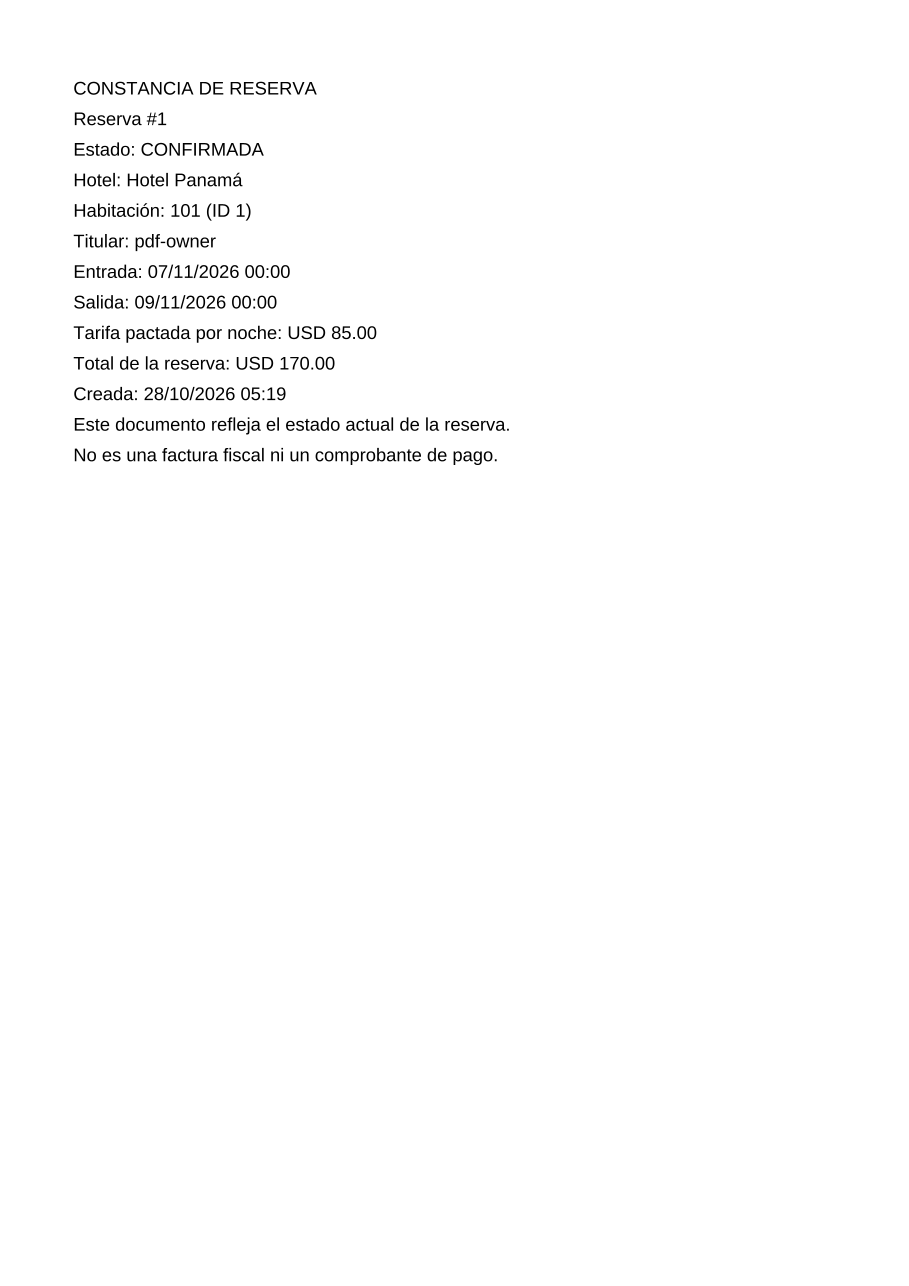
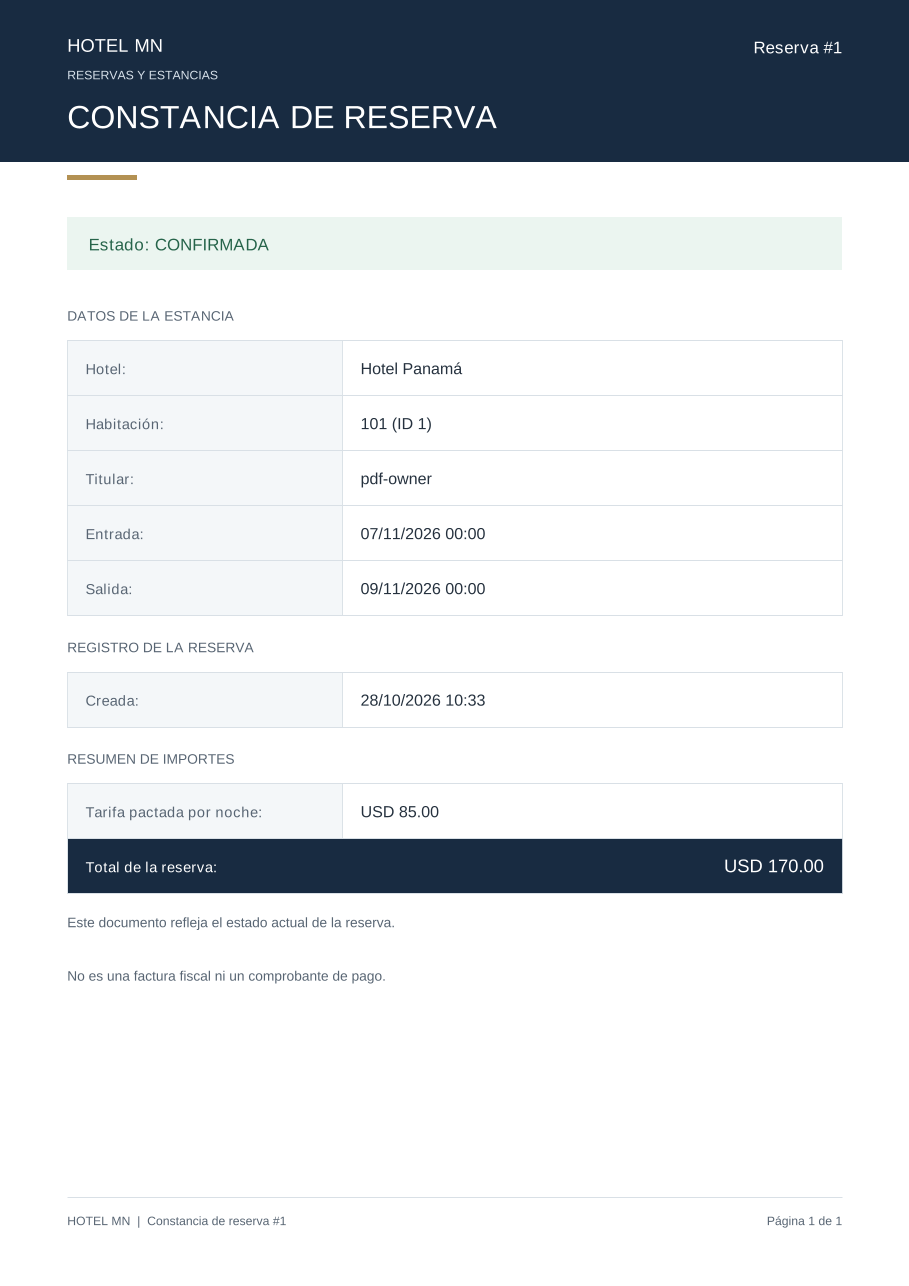
docs(hu04): registrar revision humana y muestras del PDF formal (refs #6)

diff --git a/docs/INFORME_ERIC.md b/docs/INFORME_ERIC.md
@@ -10,6 +10,7 @@ Historia nueva de Eric: «Como cliente con reservas registradas, quiero descarga
 | Corrección de un error real de la IA en HU-01 | Codex, agente de escritorio | Verificar en navegador el checkout de usuarios nuevos y recurrentes. | Las pruebas detectaron que crypto.randomUUID no estaba disponible en el contexto HTTP de la demo. Se sustituyó por un identificador basado en crypto.getRandomValues; la ejecución posterior terminó con 9/9 casos Playwright. | Eric exigió verificar el comportamiento y no dar por terminada la HU solo porque el usuario iniciara sesión o el código compilara. La corrección técnica la ejecutó el agente; no se atribuye una revisión manual inexistente. |
 | Coordinación de ramas y migraciones | Codex, agente de escritorio | Revisar PR y ramas antes de modificar; preparar HU-01 para base sin perder trabajo del equipo. | Se detectó que HU-02/HU-06 estaban integradas en main, HU-03 en base y HU-05 en PR #9. HU-01 también había usado V3, ocupada por HU-03. | Eric autorizó un merge de base únicamente dentro de la rama HU-01 y reservar V5, coordinada con V4 de HU-05. Conservó la revisión humana de los PR; no autorizó fusionarlos automáticamente. |
 | Desarrollo de HU-04: constancia PDF | Codex, agente de escritorio | Implementar descarga de una constancia de reserva propia desde Mis reservas, incluyendo estado cancelado y permisos. | Se implementaron endpoint de lectura, PDF con datos y precios guardados y botón de descarga. Pasaron 47 pruebas Java, una adicional de compatibilidad, TypeScript/lint/build y 8/8 Playwright, con descarga confirmada y cancelada. Se inspeccionó el render de un PDF sintético. [PR #14](https://github.com/yigpan29/hotel-reservation-system/pull/14) en borrador; CI frontend e integración satisfactorias. Pendiente revisión humana. | Eric solicitó una historia independiente de pagos. Se mantiene la constancia como documento informativo y no como comprobante de pago, con ramas separadas y sin modificar la base de desarrollo. |
+| Revisión funcional y formato formal de la constancia | Codex, agente de escritorio | Mejorar la presentación del PDF con un diseño formal y tablas, conservando los datos y permisos. | Se incorporaron encabezado, estado destacado, tablas de estancia y registro, resumen de importes y pie numerado. Pasaron las cinco pruebas de constancias en una base temporal separada; se inspeccionaron PDF confirmados, cancelados y con texto largo. | Probé ambas demos y confirmé que realizan lo solicitado en las historias. Pedí reemplazar el texto lineal de la constancia por una presentación formal en tablas, adecuada para una reserva de hotel. |
 
 HU-04 está implementada y verificada; su PR #14 sigue pendiente de revisión humana. HU-01 ya contiene la base actual y pasó pagos por API contra Stripe sandbox; falta la verificación interactiva indicada y coordinar HU-05/V4 antes de aplicar V5 en entornos compartidos. No se fusionaron los PR. La suite de 79+1 y 12 Playwright precede a la corrección puntual del adaptador; después se ejecutaron seis pruebas del adaptador final y los siete escenarios sandbox, sin afirmar una nueva suite conjunta de 80.
 

diff --git a/docs/AI_DEVELOPMENT_LOG.md b/docs/AI_DEVELOPMENT_LOG.md
@@ -572,3 +572,33 @@ retornaron 1 sin baseline y 64 para destinos incorrectos. El PDF y su render
 sintéticos se conservaron en docs/evidencias/hu04 y se inspeccionaron visualmente.
 No se modificó PostgreSQL de desarrollo. HU-04 queda implementada y verificada
 sobre base 9bd8d2e, pendiente de revisión humana e integración del PR.
+
+## HU-04: revisión humana y formato formal de constancia — 28/10/2026
+
+Eric informó que probó las dos demos y que cumplen el comportamiento esperado.
+Solicitó mejorar la constancia porque el texto lineal no tenía la presentación
+formal que esperaba para una reserva de hotel. Esta declaración se registra como
+revisión funcional humana, sin atribuirle pruebas específicas de 3DS o webhooks
+que no describió.
+
+Se sustituyó la presentación lineal por encabezado HOTEL MN y referencia, franja
+de estado, tablas de estancia y registro, total destacado y pie numerado. Se
+conservan los datos pactados, la cancelación, el aviso de que no acredita pagos,
+el control de propiedad y el contrato HTTP. Celdas medidas, ajuste por palabras,
+márgenes y encabezados repetidos evitan recortes de datos extensos.
+
+Las cinco pruebas existentes de constancias pasaron en PostgreSQL tmpfs de un
+proyecto separado, hotel-reservation-system-hu04-format-test; no se truncaron las
+reservas de la demo que Eric acababa de probar. Las pruebas exportan confirmada,
+cancelada y texto largo para inspección visual. Se revisaron los tres PNG y se
+actualizaron PDF/PNG sintéticos de docs/evidencias/hu04. No se volvió a afirmar
+una ejecución de toda la suite: el cambio se validó con sus cinco pruebas de
+contenido, permisos y CSRF, compilación y revisión visual.
+
+Se actualiza únicamente el backend de HU-04 con el perfil isolated para evitar
+repetir el cargador demo. PostgreSQL no se reinicia ni se migra; HU-01 y su
+listener permanecen activos. La revisión y publicación continúan en PR #14,
+siempre en borrador y sin fusionar.
+La huella y cantidad de las reservas de la demo antes y después de actualizar
+backend resultaron idénticas. Ambas demos respondieron HTTP 200. Se detuvo solo
+el PostgreSQL auxiliar de pruebas de formato; las dos demos permanecen activas.

diff --git a/docs/HU04_CONSTANCIA.md b/docs/HU04_CONSTANCIA.md
@@ -4,6 +4,12 @@ Refs #6. Como cliente con reservas registradas, quiero descargar una constancia 
 
 En **Mis reservas**, usar **Descargar constancia #ID**, tanto para reservas confirmadas como canceladas. El PDF incluye hotel, habitación, titular, fechas, estado, precios pactados y fecha de cancelación si existe. Los importes heredados ausentes se muestran como «No registrado»; nunca se calculan con la tarifa actual. Es una constancia informativa, no una factura ni prueba de pago.
 
+La presentación formal incluye encabezado HOTEL MN, referencia de reserva,
+franja de estado, tablas de estancia y registro, resumen de importes con total
+destacado y pie con numeración. Las celdas se ajustan al texto; los encabezados
+y el pie se repiten si se necesita otra página. La cancelación se distingue
+con una franja roja y conserva su fecha en la tabla de registro.
+
 `GET /api/reservations/{id}/certificate` requiere sesión y propiedad de la reserva; no concede excepción a administradores. Responde `application/pdf`, adjunto `constancia-reserva-ID.pdf`, `Cache-Control: no-store, private`. Devuelve 401 sin sesión, 403 para otra persona y 404 si no existe. GET solo lee: no requiere token CSRF; las operaciones que escriben siguen protegidas.
 
 Se utiliza Apache PDFBox 3.0.8, según [documentación oficial](https://pdfbox.apache.org/3.0/getting-started.html). No se almacenan PDFs en el servidor ni se modifica el esquema. Las fuentes PDF estándar soportan español; glifos fuera de su repertorio se sustituyen por `?`, sin provocar errores. El texto largo se divide entre líneas y páginas.

diff --git a/docs/evidencias/hu04/README.md b/docs/evidencias/hu04/README.md
@@ -9,3 +9,11 @@ no registros de desarrollo. La prueba verifica USD 85 por noche y USD 170 total,
 aunque la tarifa actual de la habitación se cambia a USD 999 antes de descargar.
 También comprueba que la descarga no modifica la fila de reserva ni crea pagos.
 El PNG se inspeccionó visualmente para verificar legibilidad y ausencia de recortes.
+
+Las muestras actuales corresponden al formato formal tabular solicitado por Eric
+después de probar ambas demos. Se incorporan `constancia-cancelada.pdf` y su PNG.
+La versión confirmada, la cancelada y otra con nombre de hotel largo y precios
+ausentes se revisaron visualmente tras ejecutar las cinco pruebas de constancias
+en el proyecto separado `hotel-reservation-system-hu04-format-test`. No se usó
+la base de la demo del usuario para ejecutar esas pruebas ni se crearon nuevas
+pruebas que solo repitan los detalles del diseño.
